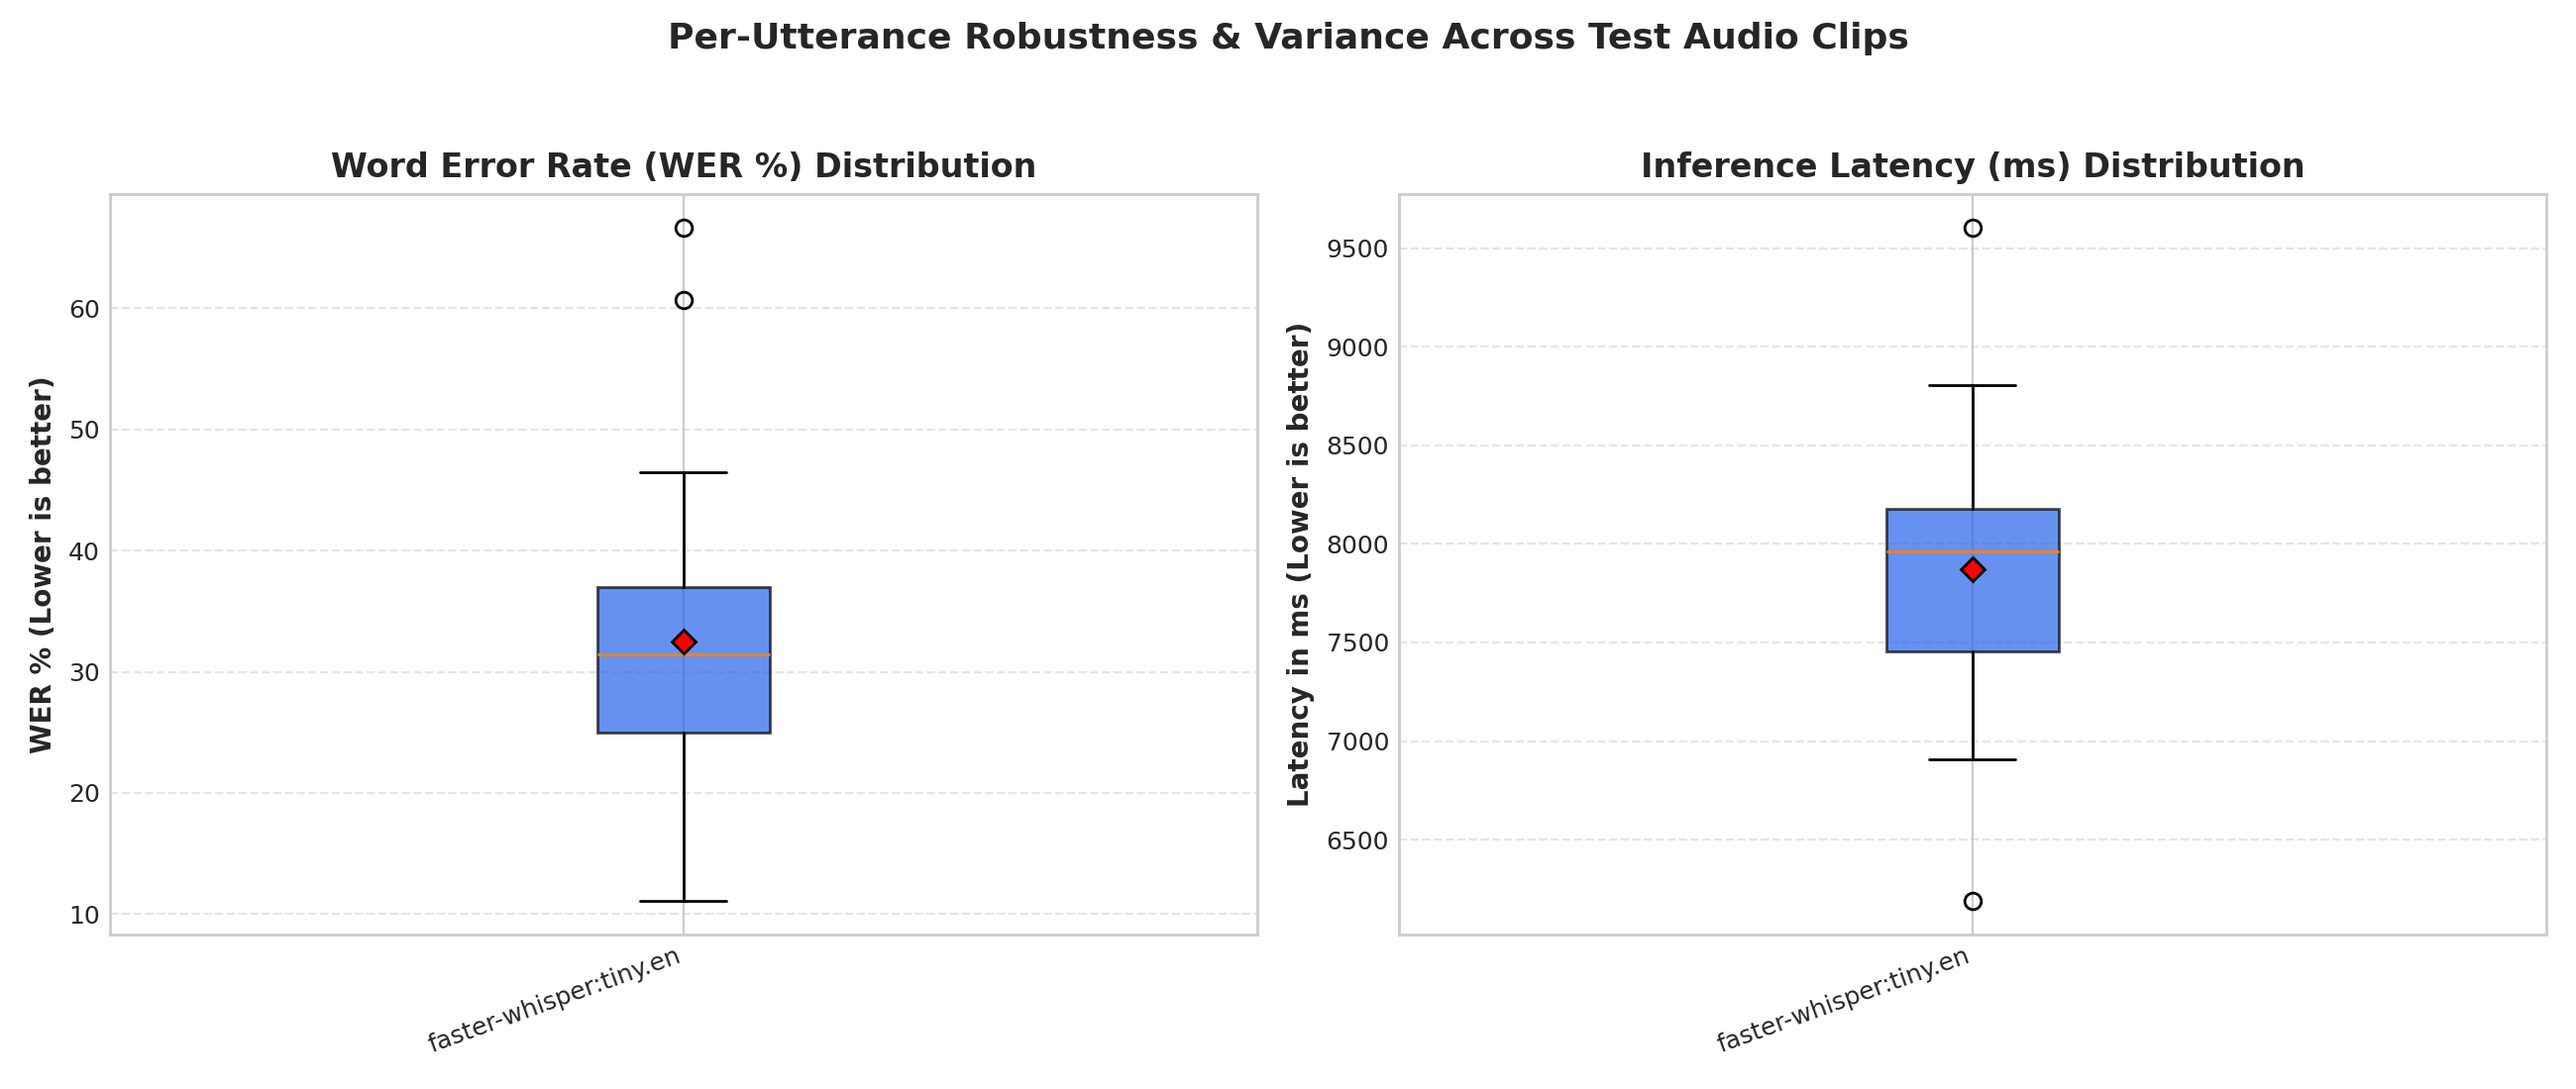
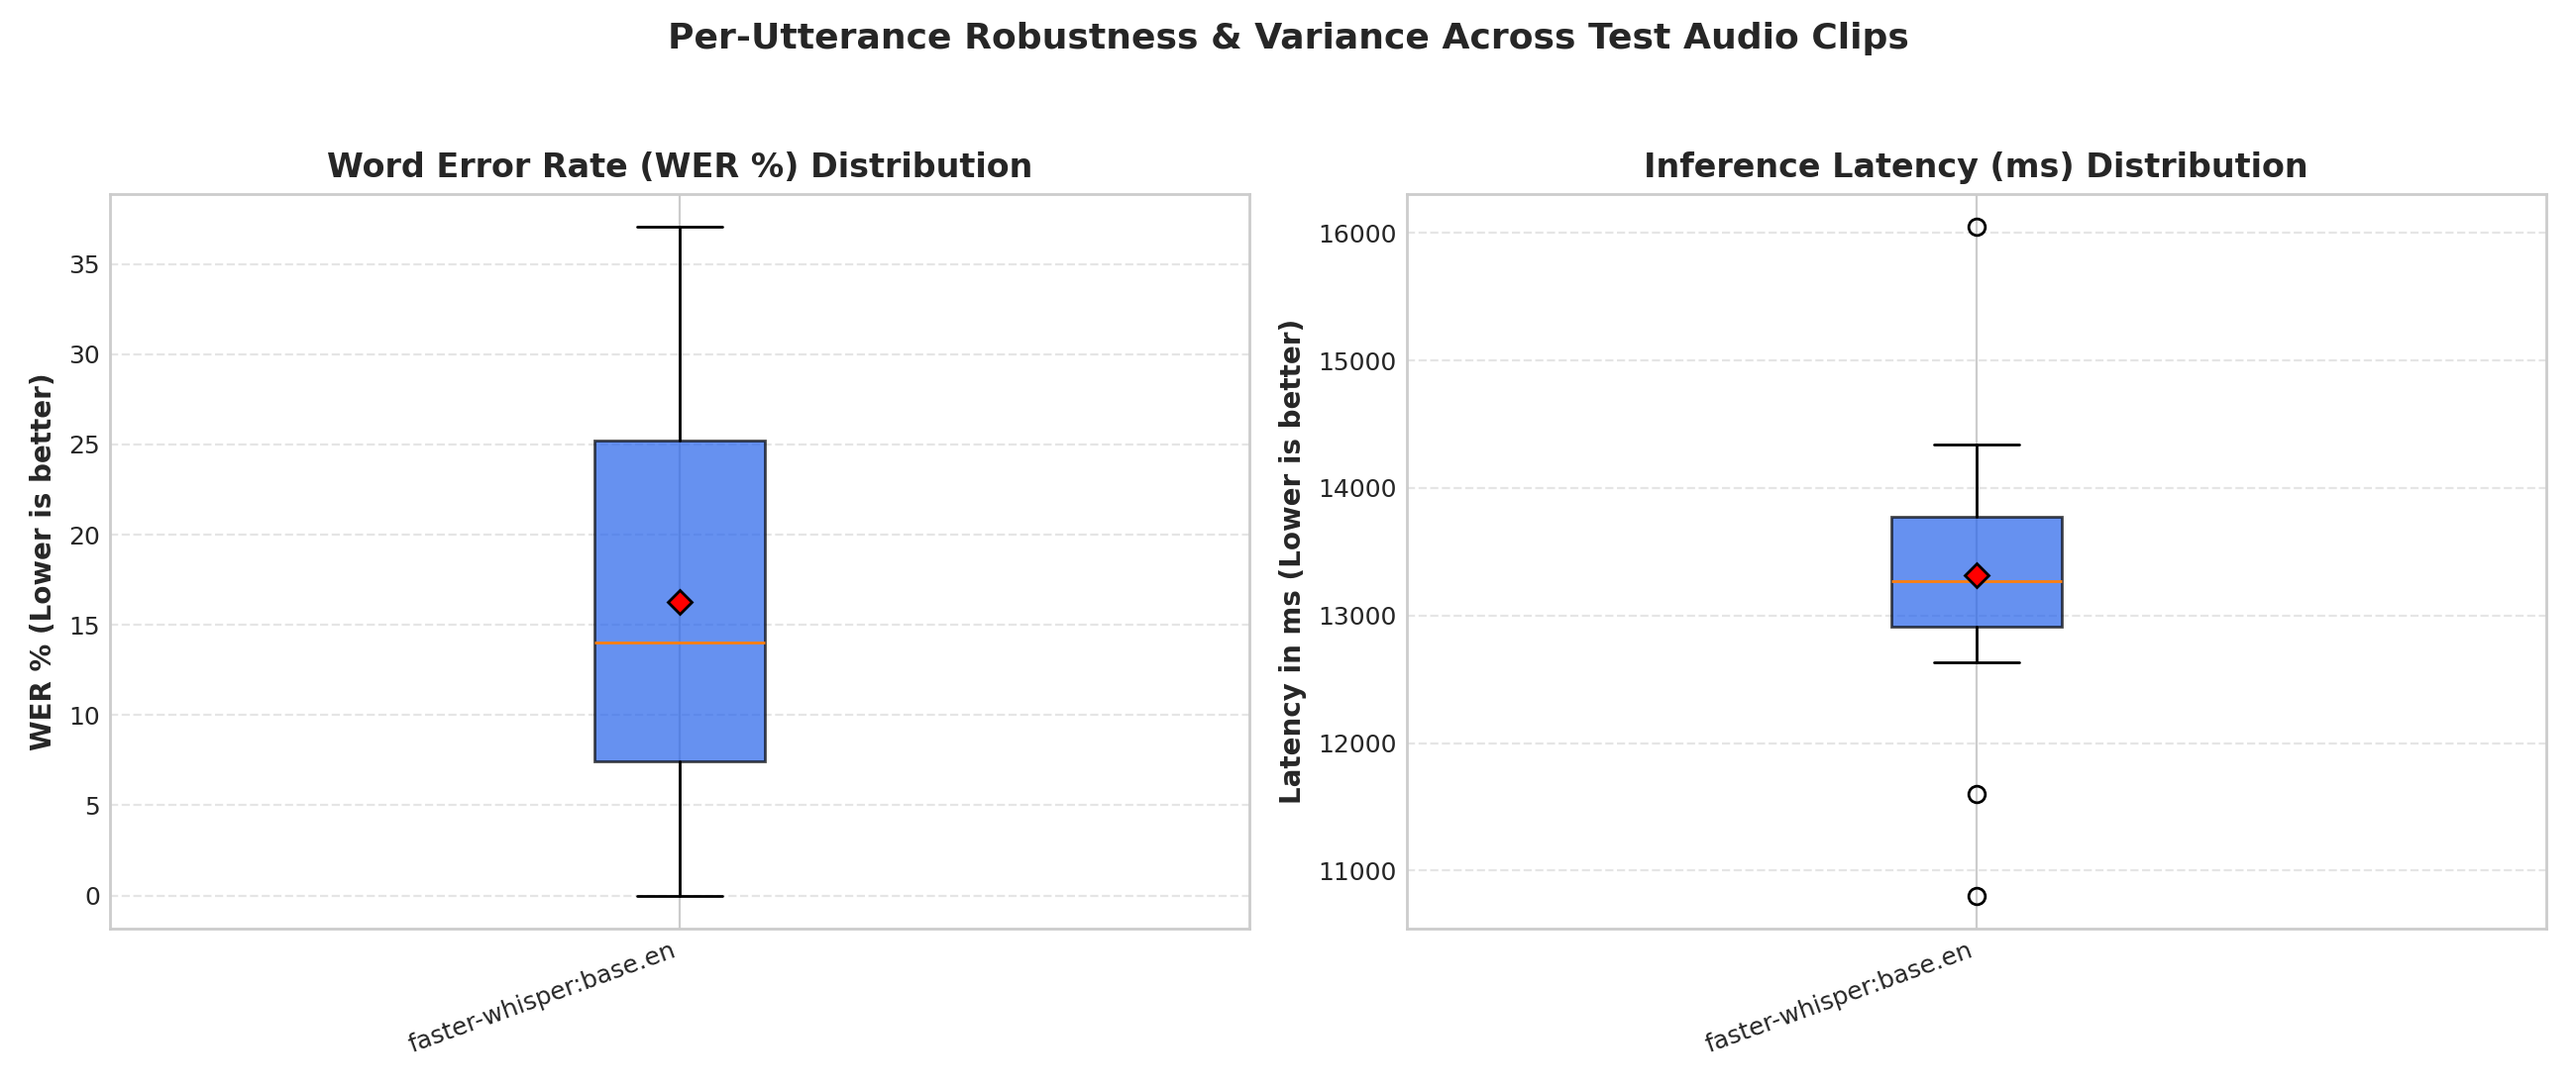
execute benchmark.py on arduino

diff --git a/python/results_computer/plots/evaluation_report.html b/python/results_computer/plots/evaluation_report.html
@@ -25,11 +25,11 @@
         <div class="recommendation">
             <h3 style="margin:0 0 6px 0; color:#1D4ED8; font-size:16px;">Recommendation for Arduino UNO Q Deployment</h3>
             <p style="margin:0; color:#1E40AF; font-size:14px;">
-                <strong>faster-whisper:tiny.en</strong> achieves the most balanced edge profile: 
-                <strong>32.5% WER</strong>, 
-                <strong>7870 ms latency</strong> 
-                (0.58x RTF), 
-                and <strong>330 MB peak RAM</strong>.
+                <strong>faster-whisper:base.en</strong> achieves the most balanced edge profile: 
+                <strong>16.3% WER</strong>, 
+                <strong>13319 ms latency</strong> 
+                (0.99x RTF), 
+                and <strong>406 MB peak RAM</strong>.
             </p>
         </div>
         
@@ -56,14 +56,14 @@
                         
         <tr style="border-bottom:1px solid #E2E8F0; background:#F0FDF4;">
             <td style="padding:10px 14px; text-align:center; font-weight:bold;">#1</td>
-            <td style="padding:10px 14px; font-weight:bold; color:#1E293B;">faster-whisper:tiny.en</td>
-            <td style="padding:10px 14px; text-align:right; font-weight:bold; color:#DC2626;">32.5%</td>
-            <td style="padding:10px 14px; text-align:right;">18.9%</td>
-            <td style="padding:10px 14px; text-align:right;">78.9%</td>
-            <td style="padding:10px 14px; text-align:right; font-weight:bold;">7870 ms</td>
-            <td style="padding:10px 14px; text-align:center;">0.581x (<span style="color:#059669;font-weight:bold;">Real-Time</span>)</td>
-            <td style="padding:10px 14px; text-align:right;">330.4 MB</td>
-            <td style="padding:10px 14px; text-align:right;">74.5 MB</td>
+            <td style="padding:10px 14px; font-weight:bold; color:#1E293B;">faster-whisper:base.en</td>
+            <td style="padding:10px 14px; text-align:right; font-weight:bold; color:#16A34A;">16.3%</td>
+            <td style="padding:10px 14px; text-align:right;">9.6%</td>
+            <td style="padding:10px 14px; text-align:right;">94.7%</td>
+            <td style="padding:10px 14px; text-align:right; font-weight:bold;">13319 ms</td>
+            <td style="padding:10px 14px; text-align:center;">0.987x (<span style="color:#059669;font-weight:bold;">Real-Time</span>)</td>
+            <td style="padding:10px 14px; text-align:right;">406.4 MB</td>
+            <td style="padding:10px 14px; text-align:right;">140.9 MB</td>
             <td style="padding:10px 14px; text-align:center;"><span style="color:#2563EB;font-weight:600;">Yes</span></td>
         </tr>
         
